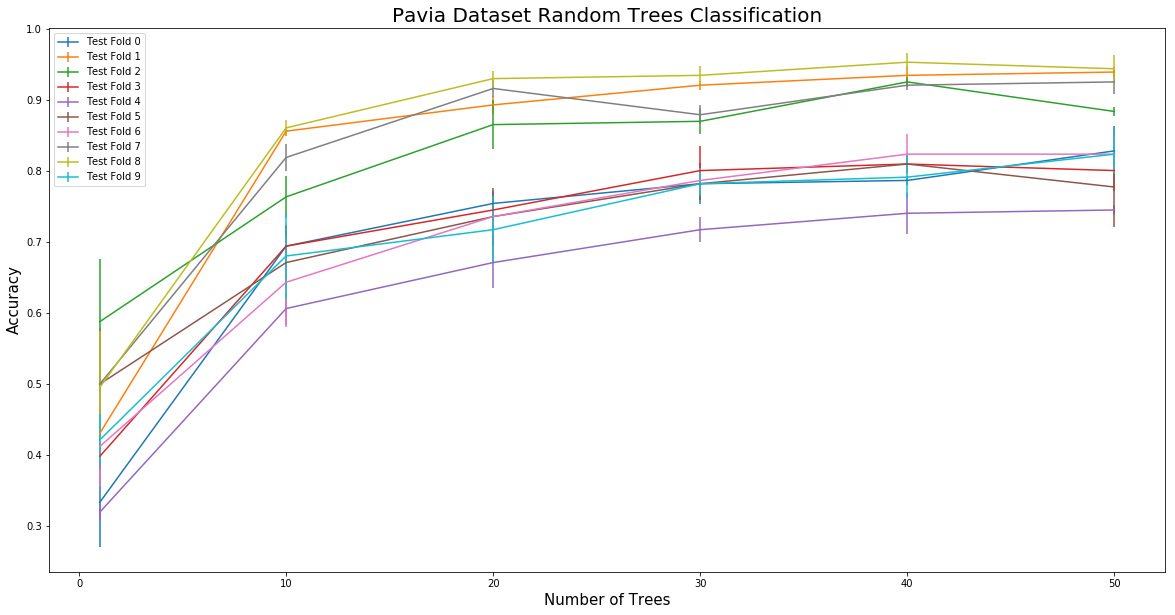
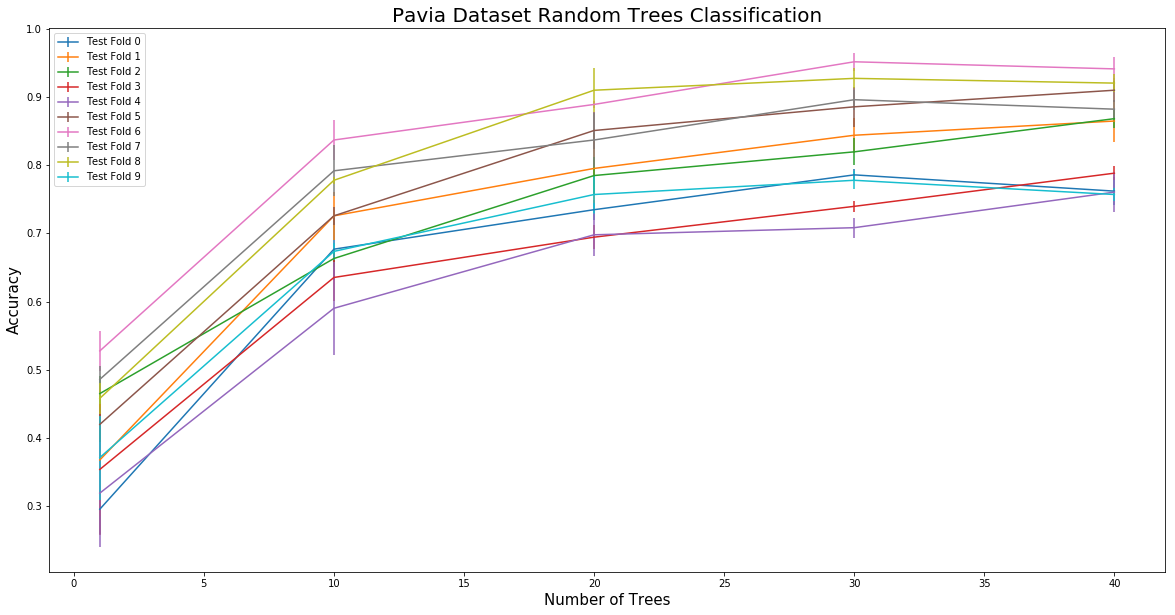
Small change

Changed region(s): [[0.0613, 0.0927, 0.9498, 0.8033], [0.0613, 0.8033, 0.0919, 0.8341]]

diff --git a/proj_par1_classifiers.py b/proj_par1_classifiers.py
@@ -63,7 +63,7 @@ def load_images():
 
 def randfom_forest_test(data, ground_truth, max_trees):
     '''Max Trees must be a multiple of 10'''
-    num_trees = math.floor(max_trees/10);
+    num_trees = math.floor(max_trees/10)+1;
     start = time.time()
     num_folds = 10
     num_features = 10
@@ -207,6 +207,6 @@ def knn_test(data, ground_truth, kmax):
 
 if __name__ == "__main__":
     image_arr, image_class_arr, image_list, image_class = load_images()
-    randfom_forest_test(image_arr, image_class_arr, 100)
-    knn_test(image_arr, image_class_arr, 10)
+    randfom_forest_test(image_arr, image_class_arr, 20)
+    knn_test(image_arr, image_class_arr, 5)
     f = 1
